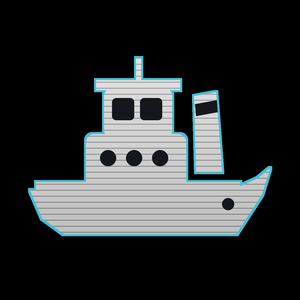
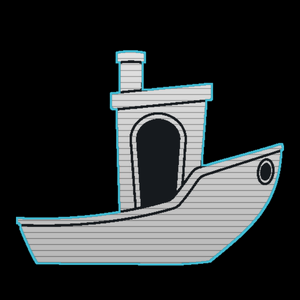
Trace the mascot replacement from a Benchy silhouette image
make_boat.py now takes a flat-colour source image, finds the boat colour,
closes the thin white lines so they become engraved details, and redraws
the outline in the UI style (layer lines, cyan accent, dimmed variant).
The source image stays local (examples/klipper_branding/source/, ignored).

Claude-Session: https://claude.ai/code/session_01HTu6hzj5QCnmUbcSjc1dCz

Changed region(s): [[0.03, 0.15, 0.96, 0.9], [0.72, 0.66, 0.78, 0.72]]

diff --git a/examples/klipper_branding/make_boat.py b/examples/klipper_branding/make_boat.py
@@ -1,86 +1,111 @@
 #!/usr/bin/env python3
-"""Draw the replacement for the stock mascot icon (lib 18, icons 4 and 5):
-an original little printed tugboat, with layer lines, in the UI's palette.
+"""Build the replacement for the stock mascot icon (lib 18, icons 4 and 5)
+from a boat (Benchy) silhouette image.
 
-Icon 4 is the normal state, icon 5 the dimmed one. Both are 300x300 on black,
-because black is the icon transparency key.
+The source is a flat-colour drawing: the coloured area is the boat, and white
+areas enclosed by it (window, porthole, deck line) are details. The outline
+is traced from the image and redrawn in the UI's style:
+- light grey with print layer lines and dark details;
+- a cyan accent outline, like the stock mascot;
+- icon 5 is the same, dimmed.
+Both icons are 300x300 on black (black = transparency key).
 
-    python make_boat.py            -> boat.png, boat_dim.png
+    python make_boat.py SOURCE_IMAGE [--color "#0596c8"]  -> boat.png, boat_dim.png
+
+The source image is not kept in this repository (see .gitignore); only the
+generated icons are.
 """
+import argparse
 import os
 
+import numpy as np
 from PIL import Image, ImageChops, ImageDraw, ImageFilter
 
 HERE = os.path.dirname(os.path.abspath(__file__))
-S = 4                       # supersampling
 W = H = 300
+FIT_W, FIT_H = 264, 236          # drawing area inside the icon
 ACCENT = (66, 190, 214)
 
 
-DY = 22                     # vertical offset that centres the drawing in the icon
+def masks(src, color, tol, closing=6):
+    """(body, details): body = coloured area with holes filled, details = holes."""
+    a = np.asarray(src.convert('RGB')).astype(np.int32)
+    c = np.array(color)
+    dist = np.sqrt(((a - c) ** 2).sum(-1))
+    paint = np.clip((tol * 1.6 - dist) / (tol * 0.6), 0, 1)          # soft edge
+    hard = Image.fromarray(((paint > 0.5) * 255).astype(np.uint8), 'L')
+    # close the thin white lines (deck line, window frame) that run out to the
+    # edge, so they count as details rather than as outside
+    k = closing * 2 + 1
+    hard = hard.filter(ImageFilter.MaxFilter(k)).filter(ImageFilter.MinFilter(k))
+    # outside = everything reachable from the border without crossing paint
+    pad = Image.new('L', (hard.width + 2, hard.height + 2), 0)
+    pad.paste(hard, (1, 1))
+    ImageDraw.floodfill(pad, (0, 0), 128)
+    outside = np.asarray(pad)[1:-1, 1:-1] == 128
+    body = ~outside
+    details = body & (paint < 0.5)
+    soft_body = np.where(outside, 0.0, 1.0)
+    return (Image.fromarray((soft_body * 255).astype(np.uint8), 'L'),
+            Image.fromarray((details * 255).astype(np.uint8), 'L'))
 
 
-def P(*pts):
-    return [(x * S, (y + DY) * S) for x, y in pts]
+def render(body, details, dim=False, scale=4):
+    """body/details: 'L' masks already cropped to the boat; returns a 300x300 RGB icon."""
+    s = min(FIT_W / body.width, FIT_H / body.height)
+    bw, bh = round(body.width * s * scale), round(body.height * s * scale)
+    body = body.resize((bw, bh), Image.LANCZOS)
+    details = details.resize((bw, bh), Image.LANCZOS)
+    big = (W * scale, H * scale)
+    ox, oy = (big[0] - bw) // 2, (big[1] - bh) // 2 + 8 * scale
+    B = Image.new('L', big, 0)
+    B.paste(body, (ox, oy))
+    D = Image.new('L', big, 0)
+    D.paste(details, (ox, oy))
 
-
-def silhouette():
-    """White-on-black mask of the boat."""
-    m = Image.new('L', (W * S, H * S), 0)
-    d = ImageDraw.Draw(m)
-    # hull: flat stern on the left, raised bow on the right
-    d.polygon(P((30, 168), (236, 166), (258, 156), (270, 146), (262, 172), (236, 212), (64, 212), (42, 196)), fill=255)
-    # bulwark rail along the deck
-    d.rectangle([*P((36, 160))[0], *P((240, 170))[0]], fill=255)
-    # cabin and wheelhouse
-    d.rounded_rectangle([*P((86, 112))[0], *P((186, 168))[0]], radius=8 * S, fill=255)
-    d.rounded_rectangle([*P((104, 66))[0], *P((172, 116))[0]], radius=8 * S, fill=255)
-    d.rectangle([*P((96, 58))[0], *P((180, 68))[0]], fill=255)                     # roof overhang
-    # funnel, slightly raked
-    d.polygon(P((194, 74), (216, 70), (222, 150), (196, 150)), fill=255)
-    # mast
-    d.rectangle([*P((136, 36))[0], *P((141, 60))[0]], fill=255)
-    return m
-
-
-def windows():
-    m = Image.new('L', (W * S, H * S), 0)
-    d = ImageDraw.Draw(m)
-    for x in (112, 140):
-        d.rounded_rectangle([*P((x, 76))[0], *P((x + 22, 98))[0]], radius=4 * S, fill=255)
-    for x in (100, 126, 152):
-        d.ellipse([*P((x, 128))[0], *P((x + 16, 144))[0]], fill=255)               # portholes
-    d.ellipse([*P((222, 176))[0], *P((234, 188))[0]], fill=255)                     # hawse hole
-    d.polygon(P((195, 82), (217, 78), (218, 90), (196, 94)), fill=255)            # funnel band
-    return m
-
-
-def draw(dim=False):
-    body = silhouette()
-    win = windows()
-    # vertical shading, light at the top
-    shade = Image.linear_gradient('L').resize((W * S, H * S))
-    top, bottom = (238, 178) if not dim else (110, 80)
+    shade = Image.linear_gradient('L').resize(big)
+    top, bottom = (236, 176) if not dim else (110, 80)
     fill = Image.merge('RGB', [shade.point(lambda v: top - (top - bottom) * v // 255)] * 3)
-    # printed layer lines every 6 px
-    lines = Image.new('L', (W * S, H * S), 0)
+    lines = Image.new('L', big, 0)
     ld = ImageDraw.Draw(lines)
-    for y in range(36 + DY, 216 + DY, 6):
-        ld.line([(0, y * S), (W * S, y * S)], fill=60 if not dim else 30, width=S)
+    for y in range(oy, oy + bh, 6 * scale):                         # printed layer lines
+        ld.line([(0, y), (big[0], y)], fill=55 if not dim else 28, width=scale)
     fill = ImageChops.subtract(fill, Image.merge('RGB', [lines] * 3))
-    img = Image.new('RGB', (W * S, H * S), (0, 0, 0))
-    img.paste(fill, (0, 0), body)
-    img.paste((20, 24, 28) if not dim else (10, 12, 14), (0, 0), ImageChops.multiply(win, body))
-    # accent outline, like the stock mascot
-    edge = ImageChops.subtract(body.filter(ImageFilter.MaxFilter(4 * S + 1)), body)
-    acc = ACCENT if not dim else tuple(c // 2 for c in ACCENT)
-    img.paste(acc, (0, 0), edge)
+
+    img = Image.new('RGB', big, (0, 0, 0))
+    img.paste(fill, (0, 0), B)
+    img.paste((22, 26, 30) if not dim else (11, 13, 15), (0, 0), D)
+    edge = ImageChops.subtract(B.filter(ImageFilter.MaxFilter(4 * scale + 1)), B)
+    img.paste(ACCENT if not dim else tuple(c // 2 for c in ACCENT), (0, 0), edge)
     img = img.resize((W, H), Image.LANCZOS)
-    # keep the transparency key clean: near-black -> pure black
-    return img.point(lambda v: 0 if v < 6 else v)
+    return img.point(lambda v: 0 if v < 6 else v)                   # clean transparency key
+
+
+def main():
+    ap = argparse.ArgumentParser()
+    ap.add_argument('source', help='flat-colour boat image (e.g. a Benchy sticker)')
+    ap.add_argument('--color', default='#0596c8', help='boat colour in the source (default: auto)')
+    ap.add_argument('--tol', type=float, default=70, help='colour tolerance')
+    ap.add_argument('--closing', type=int, default=6, help='px: bridge white lines up to ~2x this wide')
+    ap.add_argument('--auto', action='store_true', default=True)
+    a = ap.parse_args()
+
+    src = Image.open(a.source).convert('RGB')
+    arr = np.asarray(src).astype(np.int32)
+    if a.auto:
+        # most saturated common colour = the boat
+        sat = arr.max(-1) - arr.min(-1)
+        sel = arr[sat > 100]
+        color = tuple(int(x) for x in np.median(sel, 0)) if len(sel) else (5, 150, 200)
+    else:
+        color = tuple(int(a.color[i:i + 2], 16) for i in (1, 3, 5))
+    body, details = masks(src, color, a.tol, a.closing)
+    box = body.getbbox()
+    body, details = body.crop(box), details.crop(box)
+    render(body, details).save(os.path.join(HERE, 'boat.png'))
+    render(body, details, dim=True).save(os.path.join(HERE, 'boat_dim.png'))
+    print(f'boat colour {color}, outline bbox {box} -> boat.png, boat_dim.png')
 
 
 if __name__ == '__main__':
-    draw().save(os.path.join(HERE, 'boat.png'))
-    draw(dim=True).save(os.path.join(HERE, 'boat_dim.png'))
-    print('boat.png, boat_dim.png written')
+    main()

diff --git a/README.md b/README.md
@@ -57,7 +57,7 @@ Examples:
 
 - [`examples/splash`](examples/splash): a new boot splash. This is the suggested first hardware test.
 - [`examples/recolor_amber`](examples/recolor_amber): the cyan accent becomes amber everywhere.
-- [`examples/klipper_branding`](examples/klipper_branding): every "CREALITY" wordmark (main-page header, the 108/109 popup character) redrawn as "KLIPPER" in the screen's own font. The Creality mascot is replaced by an original printed-tugboat icon (`make_boat.py`), and a Klipper-logo splash is rendered from the SVG by `make_splash.py`.
+- [`examples/klipper_branding`](examples/klipper_branding): every "CREALITY" wordmark (main-page header, the 108/109 popup character) redrawn as "KLIPPER" in the screen's own font. The Creality mascot is replaced by a layer-lined Benchy silhouette traced from a source image by `make_boat.py`, and a Klipper-logo splash is rendered from the SVG by `make_splash.py`.
 - [`examples/machine_page`](examples/machine_page): a custom page 45 (E-STOP, firmware restart, restart, Klipper state). It is reached from the Tune page, where it replaces the WiFi tile.
 
 The example images are generated by `examples/make_assets.py`.
